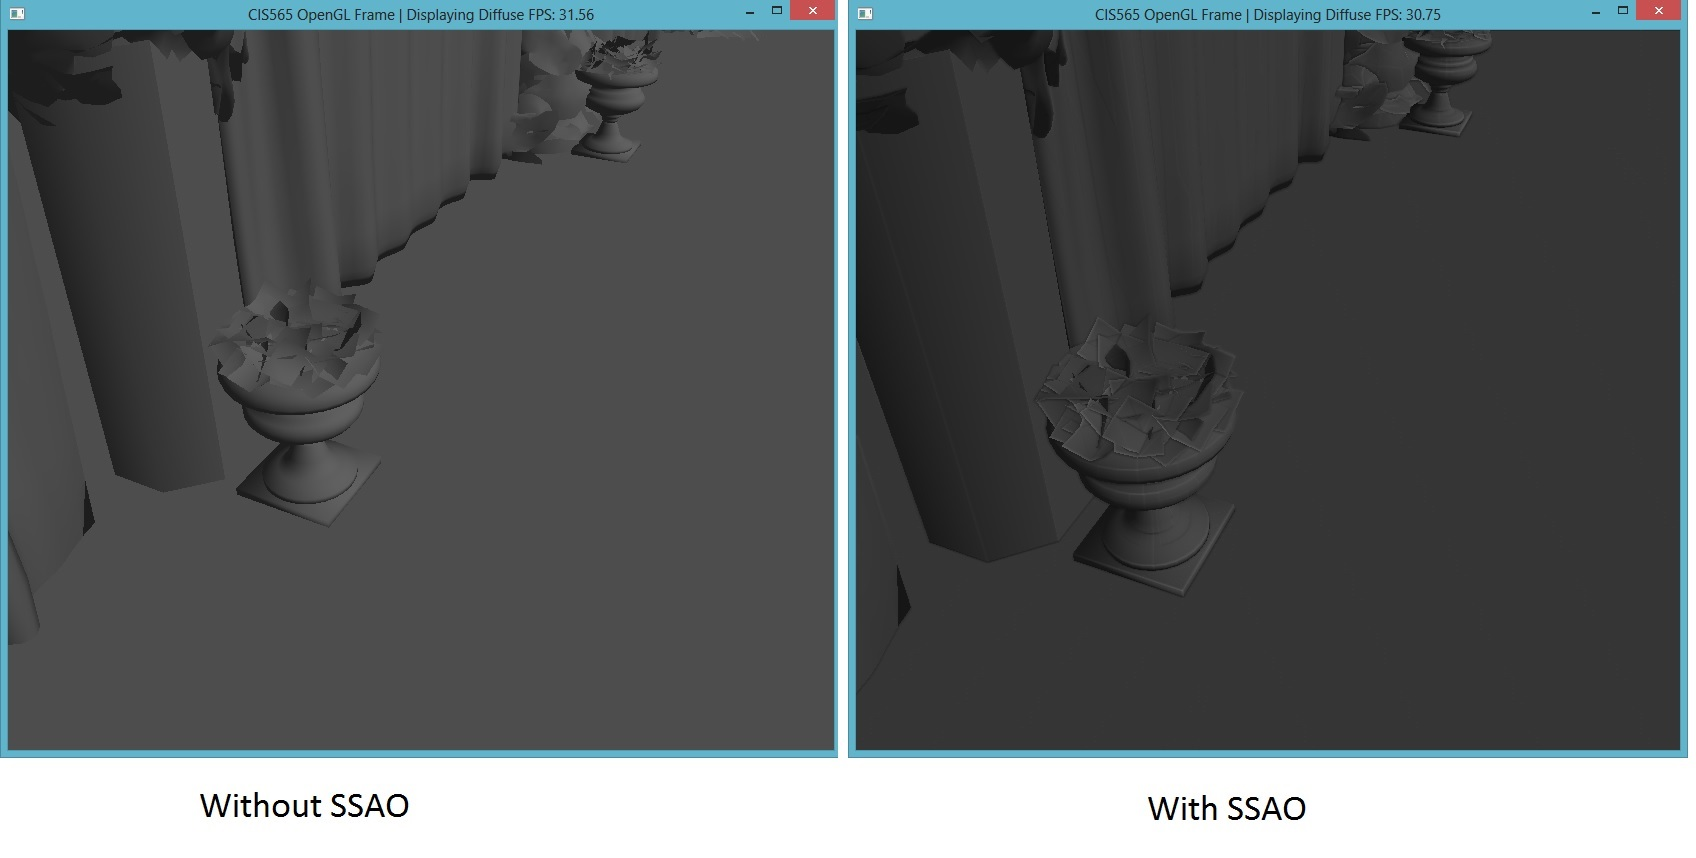
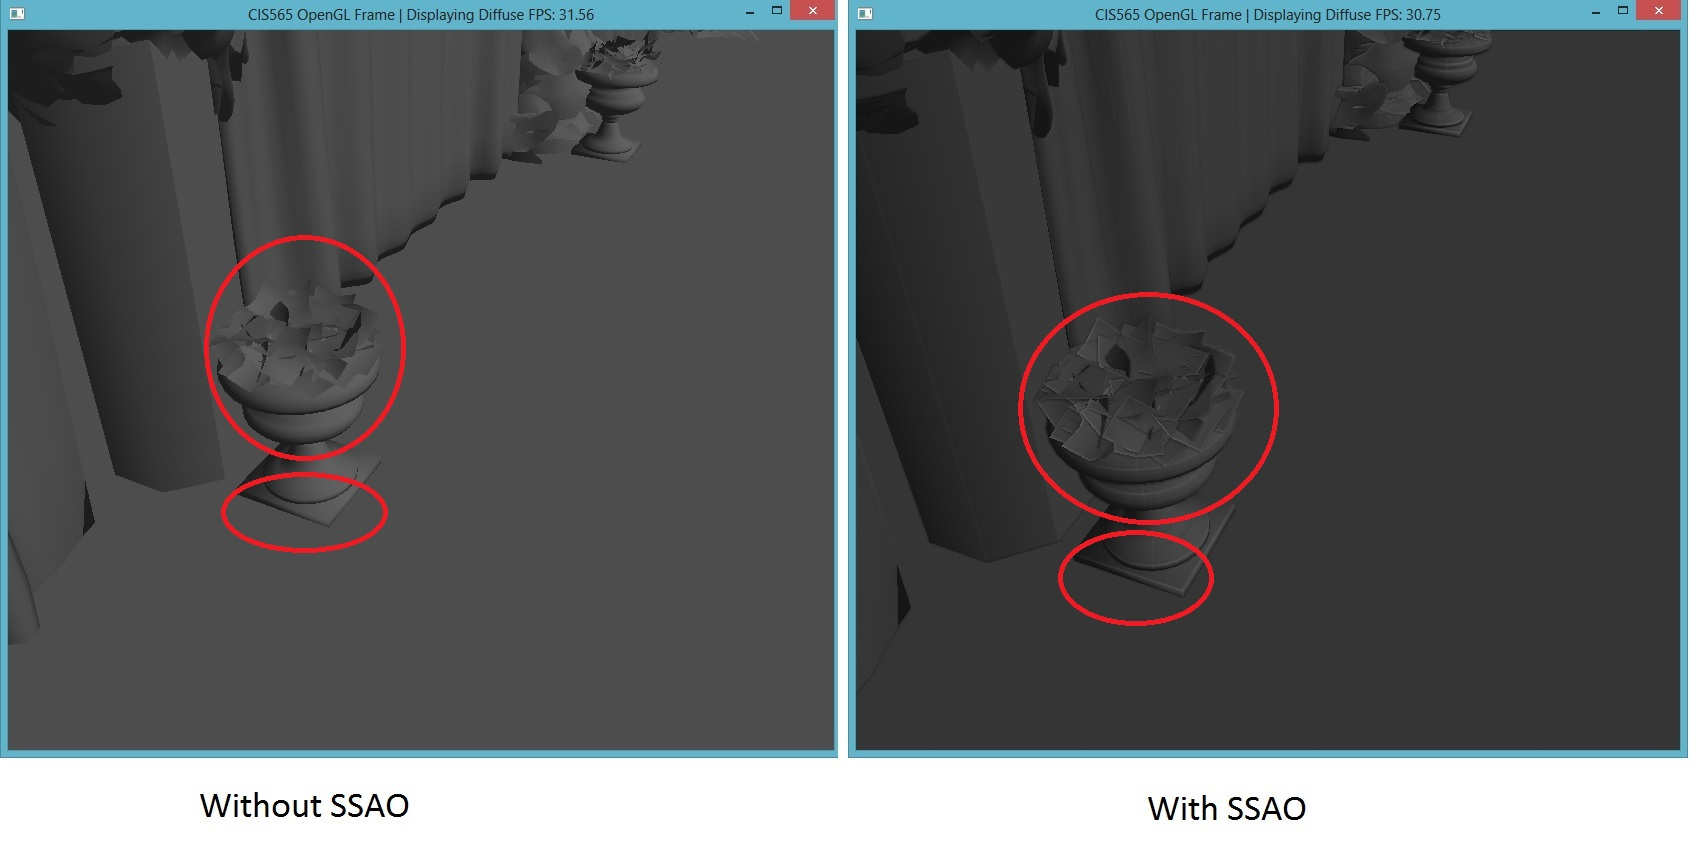
Update Readme File

diff --git a/README.md b/README.md
@@ -61,38 +61,46 @@ Below is the blooming effect. I set the walls and blocks to be the light sources
 ![Bloom Shading](https://github.com/heguanyu/Project6-DeferredShader/blob/master/img/bloom.jpg?raw=true)
 
 -------------------------------------------------------------------------------
-REQUIREMENTS:
+SSAO
 -------------------------------------------------------------------------------
 
-In this project, you are given code for:
-* Loading .obj files
-* Rendering to a minimal G buffer:
-  * Depth
-  * Normal
-  * Color
-  * Eye space position
-* Rendering simple ambient and directional lighting to texture
-* Example post process shader to add a vignette
+The SSAO, Screen-Space-Ambient-Occlusion, is a kind of algorithm that can shade the ambient shadow. The standard way of doing SSAO is like below:
 
-You are required to implement:
-* Either of the following effects
-  * Bloom (feel free to use [GPU Gems](http://http.developer.nvidia.com/GPUGems/gpugems_ch21.html) as a rough guide)
-  * "Toon" Shading (with basic silhouetting)
-* Point light sources
-* An additional G buffer slot and some effect showing it off
+1. Sample a point in hemisphere around the normal. The radius is flexible
 
-**NOTE**: Implementing separable convolution will require another link in your pipeline and will count as an extra feature if you do performance analysis with a standard one-pass 2D convolution. The overhead of rendering and reading from a texture _may_ offset the extra computations for smaller 2D kernels.
+2. Cast this point into the eye-coordination
 
-You must implement two of the following extras:
-* The effect you did not choose above
-* Screen space ambient occlusion
-* Compare performance to a normal forward renderer with
-  * No optimizations
-  * Coarse sort geometry front-to-back for early-z
-  * Z-prepass for early-z
-* Optimize g-buffer format, e.g., pack things together, quantize, reconstruct z from normal x and y (because it is normalized), etc.
-  * Must be accompanied with a performance analysis to count
-* Additional lighting and pre/post processing effects! (email first please, if they are good you may add multiple).
+3. Calculate the screen-position of this point
+
+4. Compare the Z-value with the Z-buffer on this pixel. If it is closer, thats fine. Otherwise it is occluded, record it.
+
+5. Loop the above steps(1-4) for several times(8-32), sum the total occluded amount.
+
+6. Attenuate the color according to this occluded amount.
+
+I hack it a little bit:
+
+1. Sample the pixels around the pixel I'm calculating
+
+2. Get the Z-depth and the position of that point
+
+3. If that Z-depth is further than my z-depth, no occlusion happen.
+
+4. If our distance is too far away, no occlusion happen
+
+5. Otherwise I'm occluded by this point, record it.
+
+6. Loop the above steps for each sample point in a certain radius, sum the total occluded amount
+
+7. Attenuate the color according to this occluded amount.
+
+This process is handled in the ambient.frag, before the diffuse happens.
+
+Below are 2 comparison of the result of crytek-sponza's scene. The first one without SSAO, the second one with SSAO
+
+![SSAO Compare 1](https://github.com/heguanyu/Project6-DeferredShader/blob/master/img/SSAO-compare.jpg?raw=true)
+![SSAO Compare 2](https://github.com/heguanyu/Project6-DeferredShader/blob/master/img/SSAO-compare2.jpg?raw=true)
+
 
 -------------------------------------------------------------------------------
 Setting Up the project
@@ -108,63 +116,7 @@ It took a while to figure out the problem with the project settings. To make thi
 -------------------------------------------------------------------------------
 PERFORMANCE EVALUATION
 -------------------------------------------------------------------------------
-The performance evaluation is where you will investigate how to make your 
-program more efficient using the skills you've learned in class. You must have
-performed at least one experiment on your code to investigate the positive or
-negative effects on performance. 
-
-We encourage you to get creative with your tweaks. Consider places in your code
-that could be considered bottlenecks and try to improve them. 
-
-Each student should provide no more than a one page summary of their
-optimizations along with tables and or graphs to visually explain any
-performance differences.
-
--------------------------------------------------------------------------------
-THIRD PARTY CODE POLICY
--------------------------------------------------------------------------------
-* Use of any third-party code must be approved by asking on the Google groups.  
-  If it is approved, all students are welcome to use it.  Generally, we approve 
-  use of third-party code that is not a core part of the project.  For example, 
-  for the ray tracer, we would approve using a third-party library for loading 
-  models, but would not approve copying and pasting a CUDA function for doing 
-  refraction.
-* Third-party code must be credited in README.md.
-* Using third-party code without its approval, including using another 
-  student's code, is an academic integrity violation, and will result in you 
-  receiving an F for the semester.
-
--------------------------------------------------------------------------------
-SELF-GRADING
--------------------------------------------------------------------------------
-* On the submission date, email your grade, on a scale of 0 to 100, to Liam, 
-  liamboone@gmail.com, with a one paragraph explanation.  Be concise and 
-  realistic.  Recall that we reserve 30 points as a sanity check to adjust your 
-  grade.  Your actual grade will be (0.7 * your grade) + (0.3 * our grade).  We 
-  hope to only use this in extreme cases when your grade does not realistically 
-  reflect your work - it is either too high or too low.  In most cases, we plan 
-  to give you the exact grade you suggest.
-* Projects are not weighted evenly, e.g., Project 0 doesn't count as much as 
-  the path tracer.  We will determine the weighting at the end of the semester 
-  based on the size of each project.
-
-
----
-SUBMISSION
----
-As with the previous projects, you should fork this project and work inside of
-your fork. Upon completion, commit your finished project back to your fork, and
-make a pull request to the master repository.  You should include a README.md
-file in the root directory detailing the following
-
-* A brief description of the project and specific features you implemented
-* At least one screenshot of your project running.
-* A link to a video of your project running.
-* Instructions for building and running your project if they differ from the
-  base code.
-* A performance writeup as detailed above.
-* A list of all third-party code used.
-* This Readme file edited as described above in the README section.
+With more sample in blurring and SSAO, it become slower....
 
 ---
 ACKNOWLEDGEMENTS
